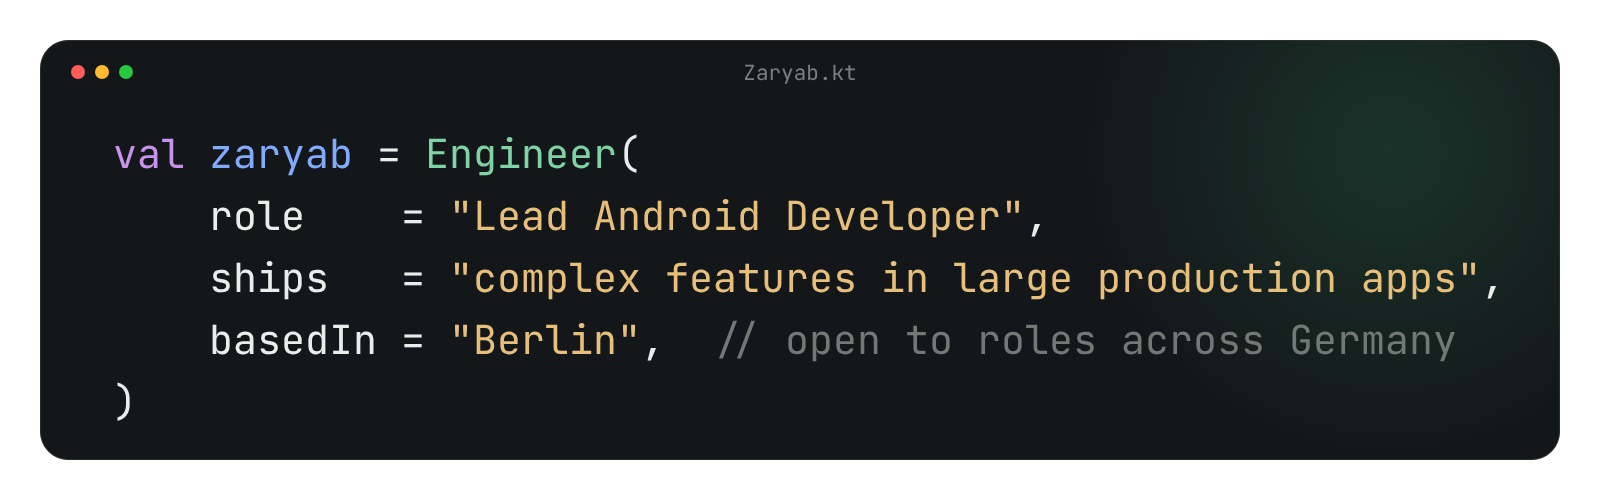
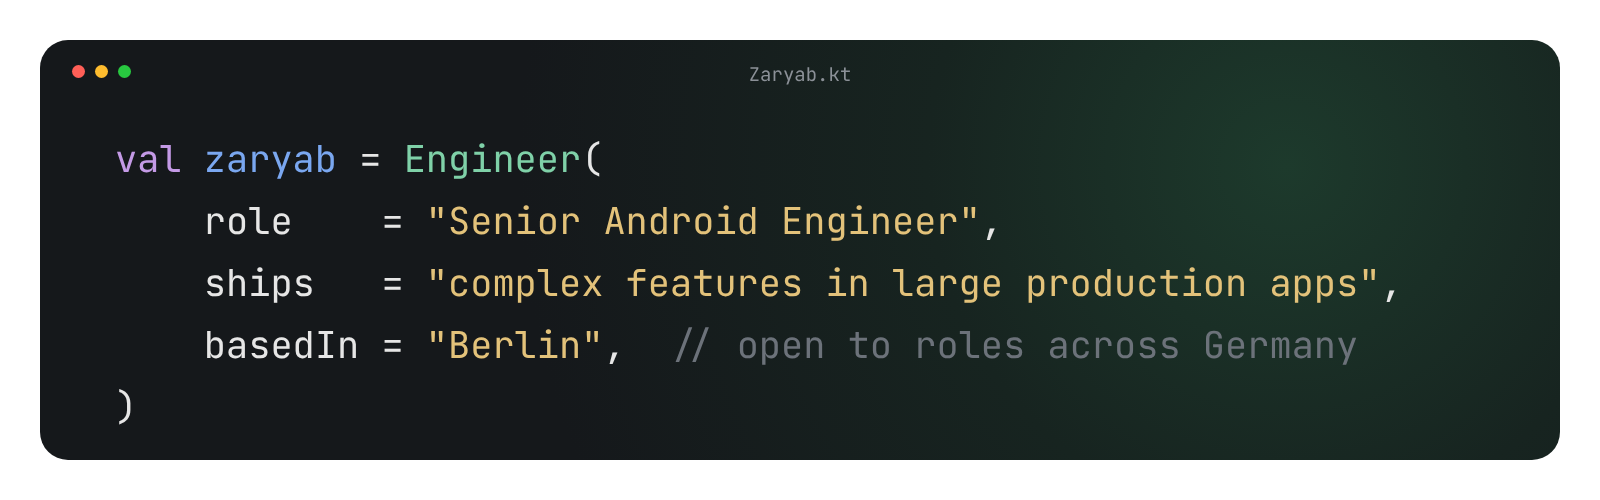
Update profile to Senior Android Engineer

diff --git a/README.md b/README.md
@@ -1,35 +1,35 @@
 <p align="center">
-  <img src="assets/cover.png" alt="val zaryab = Engineer(role = &quot;Lead Android Developer&quot;, ships = &quot;complex features in large production apps&quot;, basedIn = &quot;Berlin&quot;)" width="100%">
+  <img src="assets/cover.png" alt="val zaryab = Engineer(role = &quot;Senior Android Engineer&quot;, ships = &quot;complex features in large production apps&quot;, basedIn = &quot;Berlin&quot;)" width="100%">
 </p>
 
 <p align="center">
   <a href="https://zaryab.work"><img src="https://img.shields.io/badge/Portfolio-zaryab.work-0E7A4B?style=flat-square" alt="Portfolio"></a>
   <a href="https://www.linkedin.com/in/iamzaryab"><img src="https://img.shields.io/badge/LinkedIn-iamzaryab-0A66C2?style=flat-square&logo=linkedin&logoColor=white" alt="LinkedIn"></a>
   <a href="mailto:zaryabshakir96@gmail.com"><img src="https://img.shields.io/badge/Email-Get%20in%20touch-EA4335?style=flat-square&logo=gmail&logoColor=white" alt="Email"></a>
-  <a href="https://zaryab.work/Zaryab_Shakir_CV_Lead_Android_Developer.pdf"><img src="https://img.shields.io/badge/CV-Download%20PDF-15171A?style=flat-square" alt="CV"></a>
+  <a href="https://zaryab.work/Zaryab_Shakir_CV.pdf"><img src="https://img.shields.io/badge/CV-Download%20PDF-15171A?style=flat-square" alt="CV"></a>
 </p>
 
-Hi, I'm **Zaryab** — a hands-on Lead Android Developer in Berlin. 8+ years building Android apps across messaging, banking, social and crypto; since 2023 I've led Android and iOS squads while still writing production Kotlin.
+Hi, I'm **Zaryab**, a hands-on Senior Android Engineer in Berlin. 8+ years building Android apps across messaging, banking, payments, social and crypto. Since 2023 I've led Android and iOS squads while still writing production Kotlin every day, and I use AI-assisted development (Claude Code, GitHub Copilot, Codex) in my daily work.
 
-**Open to Lead and Senior Android roles in Germany** — on-site or remote, available now.
+**Open to Senior Android roles in Germany**, on-site or remote. Valid German residence permit, no sponsorship needed, available now.
 
 ### What I've shipped
 
-- **10M+ downloads** — led the Android & iOS squad that launched **Comera Pay**: Google Pay, government payments and national digital-identity sign-in.
-- **1M+ downloads** — split **Abu Dhabi Islamic Bank's** monolithic app into owned modules, without pausing feature delivery.
-- **~30% faster builds** — Gradle profiling that fixed several bottlenecks, not just one.
-- **90–95% test coverage** on refactored features — and an engineer mentored through to promotion.
-- **Hardened against attack** — owned app shielding with the vendor: obfuscation, root and Frida detection.
-- **Legacy → Kotlin** — migrated a Bitcoin wallet from Java to Kotlin piece by piece, with JNI/NDK crypto bindings.
+- **10M+ downloads**: at **Comera Pay**, raised crash-free users from **93% to 98%** and ANR-free users from **90% to 99%**, and shipped Google Pay, Abu Dhabi government payments and UAE PASS digital-ID sign-in.
+- **Secure login**: rebuilt secure token storage and exchange, ending forced logouts and payments stuck mid-flow.
+- **1M+ downloads**: split **Abu Dhabi Islamic Bank's** legacy app into modules, cutting builds from **15–20 to 7–8 minutes** without pausing feature delivery.
+- **Three teams, one feature**: drove secure second-device registration to production across mobile, identity and backend teams.
+- **Hardened against attack**: owned app shielding with the security vendor (obfuscation, ProGuard/R8, root and Frida detection); every release passed penetration testing with no critical findings.
+- **AI in the workflow**: built Claude skills my team adopted as internal tools; every AI change reviewed and tested.
+- **Crypto R&D**: Kotlin and JNI/NDK bindings over C/C++ crypto libraries (secp256k1, BIP32, BIP39), and a Bitcoin wallet migrated from Java to Kotlin.
 
 <sub>Download figures are Google Play download counts.</sub>
 
 ### Career
 
 `2025 – 26` &nbsp;**Lead Android Developer** · Comera\
-`2023 – 25` &nbsp;**Lead Android Developer** · Abu Dhabi Islamic Bank\
-`2021 – 23` &nbsp;**Senior Android Developer** · Abu Dhabi Islamic Bank\
-`2018 – 21` &nbsp;**Android → Senior Android Developer** · Ilsa Interactive
+`2021 – 25` &nbsp;**Senior Android Developer** (squad lead from 2023) · Abu Dhabi Islamic Bank\
+`2018 – 21` &nbsp;**Android Developer** · Ilsa Interactive, Lahore
 
 ### Stack
 
@@ -43,6 +43,8 @@ Hi, I'm **Zaryab** — a hands-on Lead Android Developer in Berlin. 8+ years bui
   <img src="https://img.shields.io/badge/Gradle-02303A?style=flat-square&logo=gradle&logoColor=white" alt="Gradle">
   <img src="https://img.shields.io/badge/Kotlin%20Multiplatform-7F52FF?style=flat-square&logo=kotlin&logoColor=white" alt="Kotlin Multiplatform">
   <img src="https://img.shields.io/badge/Flutter-02569B?style=flat-square&logo=flutter&logoColor=white" alt="Flutter">
+  <img src="https://img.shields.io/badge/Claude%20Code-D97757?style=flat-square" alt="Claude Code">
+  <img src="https://img.shields.io/badge/GitHub%20Copilot-15171A?style=flat-square&logo=githubcopilot&logoColor=white" alt="GitHub Copilot">
 </p>
 
 ### Kind words
